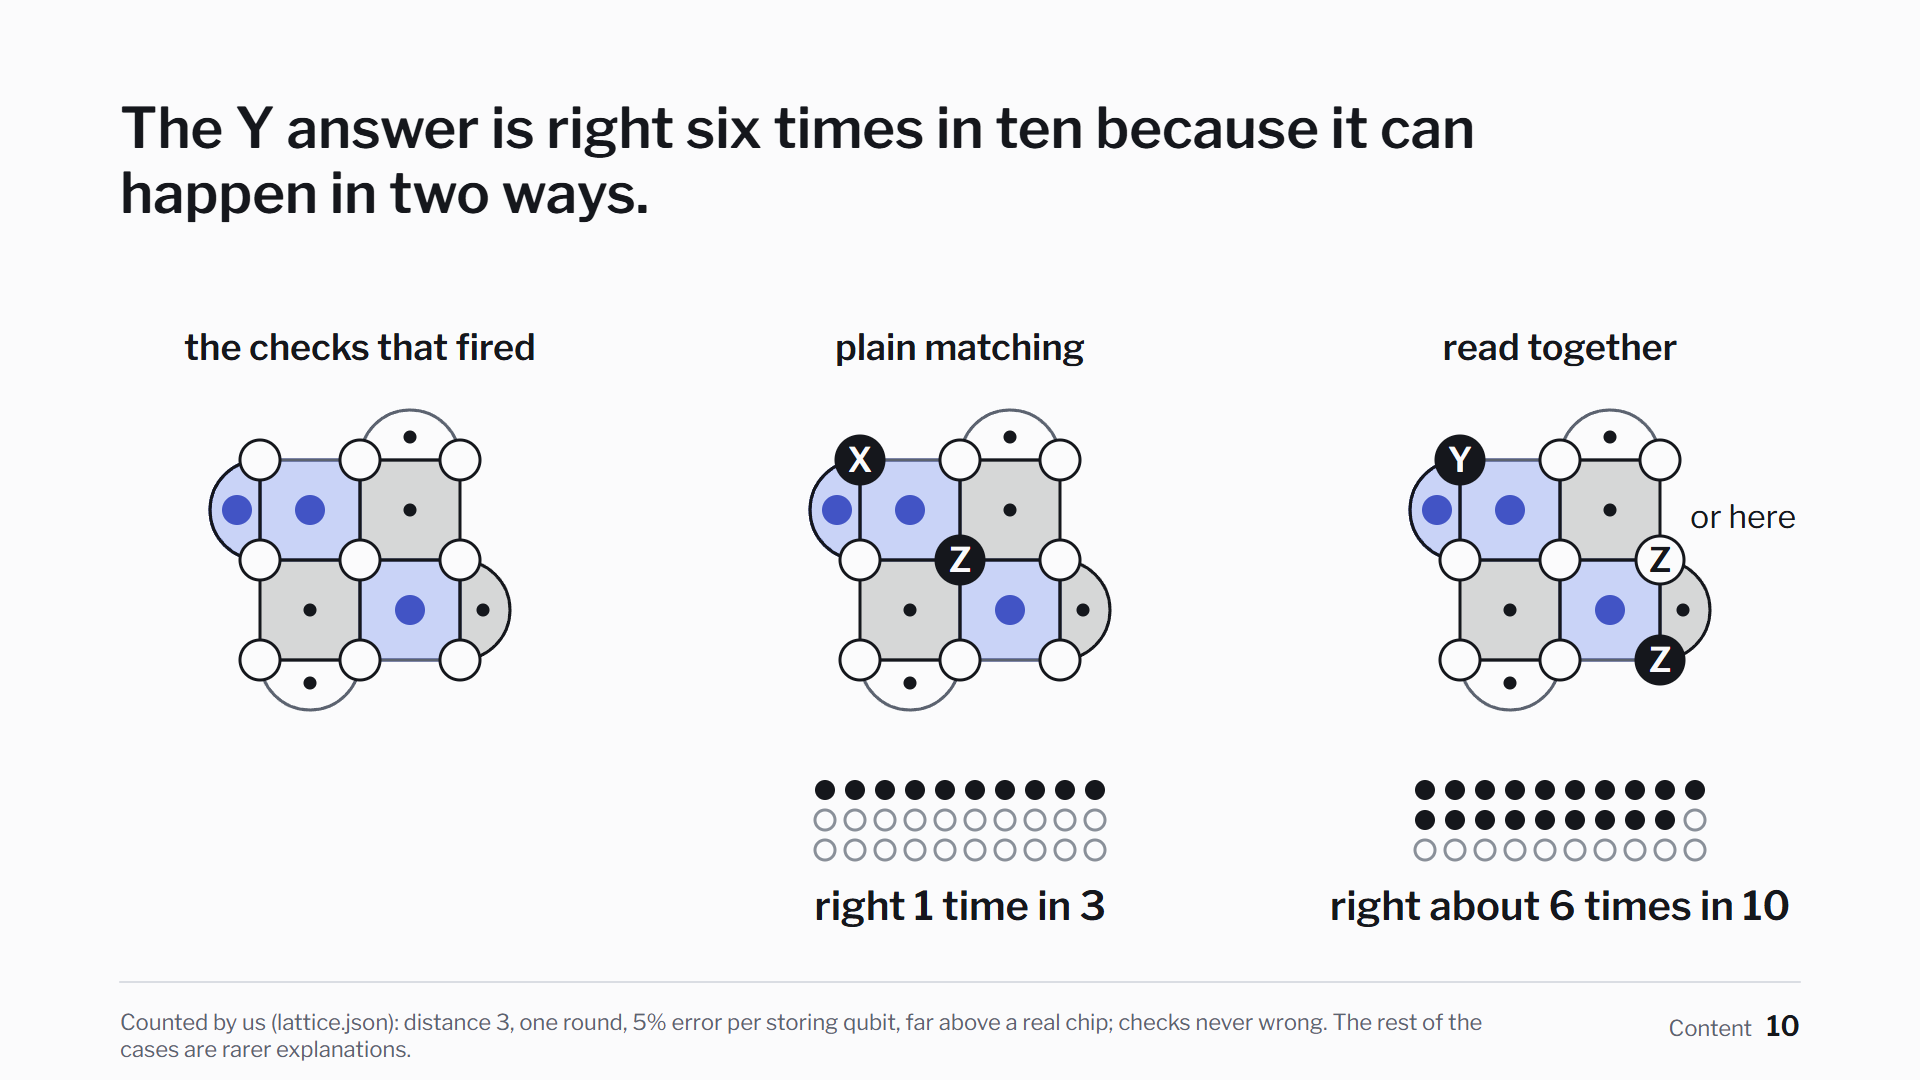
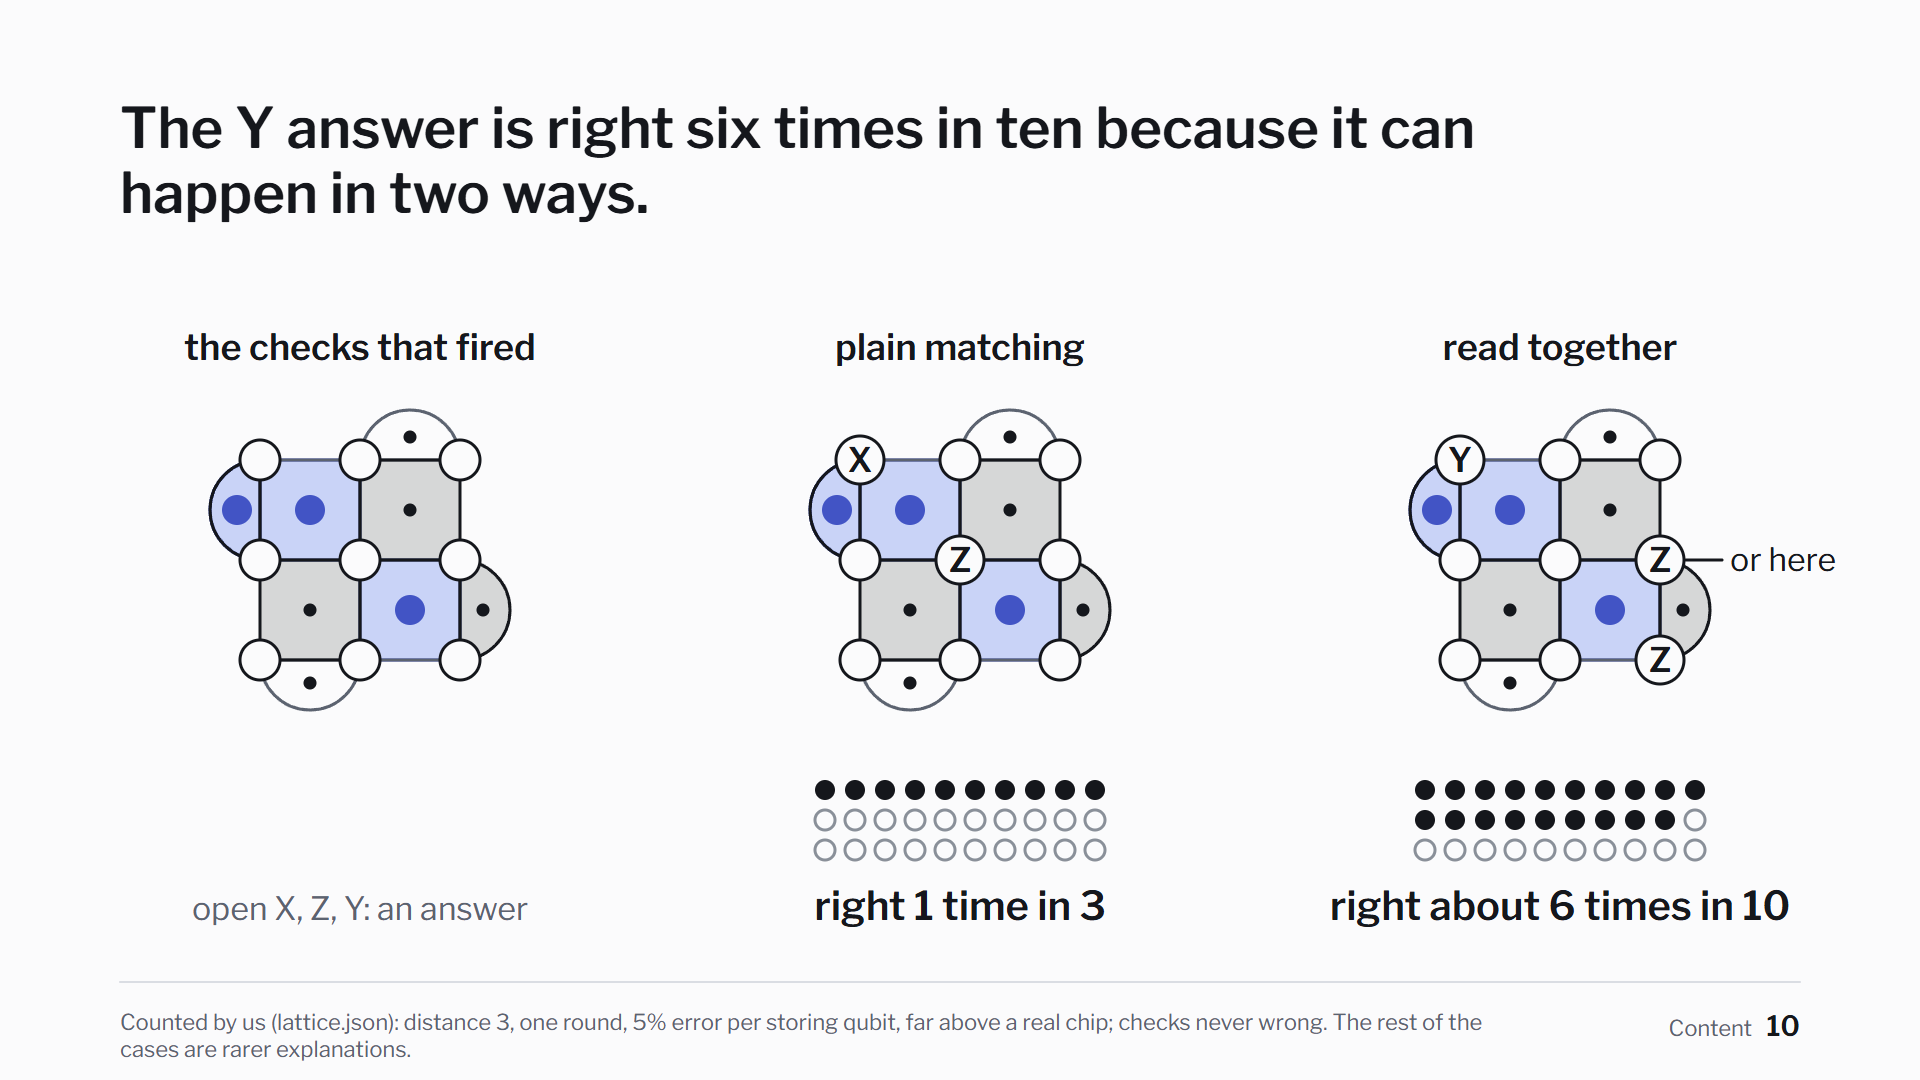
talks/quantum: review round 3 fixed (answers as open marks, slide 14 labels at the line ends, live matching on the axis, B4, notes)

diff --git a/talks/quantum/slides/14-ours/slide.js b/talks/quantum/slides/14-ours/slide.js
@@ -21,7 +21,7 @@ export default {
       title: this.title, n: this.n, part: this.part,
       source: 'Simulated, our own runs at 0.5% per operation (OWN-D3, OWN-D5, OWN-D5-250M): share of runs (3 rounds at distance 3, 5 at distance 5) that ended wrong. Curve points on 1 million runs, end values on 2 million.',
     });
-    T(svg, L, 312, 'share of simulated runs that ended wrong', { size: 32, weight: 600 });
+    T(svg, L, 312, 'share of simulated runs (3 rounds at distance 3, 5 at distance 5) that ended wrong', { size: 32, weight: 600 });
     const panel = (x0, x1, xmax, step, ylo, yhi, head) => {
       const y0 = 420, y1 = 830;
       const X = (n) => x0 + (n / xmax) * (x1 - x0);
@@ -30,7 +30,7 @@ export default {
       T(svg, x0, y0 - 26, head, { size: 36, weight: 600 });
       for (let v = 0; v <= xmax + 1; v += step) { ln(svg, X(v), y1, X(v), y1 + 12); T(svg, X(v), y1 + 46, String(v / 1e6), { size: 32, anchor: 'middle', fill: C.ink }); }
       T(svg, x1, y1 + 88, 'examples seen, millions', { size: 32, anchor: 'end', fill: C.muted });
-      for (let r = ylo; r <= yhi + 1e-9; r += 0.002) { ln(svg, x0 - 10, Y(r), x0, Y(r)); T(svg, x0 - 16, Y(r) + 11, pct(r, 1), { size: 32, anchor: 'end', fill: C.muted }); }
+      for (let r = ylo; r <= yhi + 1e-9; r += (yhi - ylo > 0.01 ? 0.004 : 0.002)) { ln(svg, x0 - 10, Y(r), x0, Y(r)); T(svg, x0 - 16, Y(r) + 11, pct(r, 1), { size: 32, anchor: 'end', fill: C.muted }); }
       const clipId = `c${x0}`;
       const cp = h('clipPath', { id: clipId }, svg); h('rect', { x: x0, y: y0, width: x1 - x0, height: y1 - y0 }, cp);
       const gc = h('g', { 'clip-path': `url(#${clipId})` }, svg);
@@ -46,34 +46,29 @@ export default {
       pth(P.gc, `M${med.map((q) => q.join(' ')).join('L')}`, { stroke: C.accent, 'stroke-width': 5 });
       return med[med.length - 1];
     };
+    // each line named at its right end, outside the plot, so no label crosses a curve
+    const tag = (P, r, str, o = {}) => T(svg, P.x1 + 14, P.Y(r) + 11 + (o.dy || 0), str, { size: 32, ...o });
     // left: distance 3, 0 to 70 million
-    const A = panel(L + 120, 860, 70e6, 10e6, 0.014, 0.020, 'Distance 3');
+    const A = panel(L + 120, 660, 70e6, 10e6, 0.014, 0.020, 'Distance 3');
     level(A, p3.levels.plain.rate); level(A, p3.levels.correlated.rate, '18 12'); level(A, p3.levels.table.rate, '3 10');
-    const [ax, ay] = band(A, p3);
-    T(svg, A.x0 + 120, A.Y(p3.levels.plain.rate) - 14, `plain ${pct(p3.levels.plain.rate)}`, { size: 32 });
-    // in the empty top right, with a leader down to the curve's end (as on the right)
-    const la = A.Y(0.0193);
-    T(svg, A.x1, la, `network ${pct(p3.final_network.mean)}`, { size: 44, weight: 600, fill: C.accent, anchor: 'end' });
-    ln(svg, ax - 6, la + 20, ax - 2, ay - 14, { stroke: C.accent, 'stroke-width': 3 });
-    // the dashed and dotted lines named at their own left ends
-    T(svg, A.x0 + 120, A.Y(p3.levels.correlated.rate) + 40, `correlated ${pct(p3.levels.correlated.rate)} (lead not counted, B4)`, { size: 32 });
-    T(svg, A.x0 + 20, A.Y(p3.levels.table.rate) + 40, `lookup table ${pct(p3.levels.table.rate)}`, { size: 32 });
+    band(A, p3);
+    tag(A, p3.levels.plain.rate, `plain ${pct(p3.levels.plain.rate)}`, { dy: -6 });
+    tag(A, p3.levels.correlated.rate, `correlated ${pct(p3.levels.correlated.rate)}`, { dy: 8 });
+    tag(A, p3.levels.correlated.rate, 'its lead not counted (B4)', { dy: 44, fill: C.muted });
+    tag(A, p3.final_network.mean, `network ${pct(p3.final_network.mean)}`, { dy: -22, weight: 600, fill: C.accent });
+    tag(A, p3.levels.table.rate, `lookup table ${pct(p3.levels.table.rate)}`, { dy: 20 });
     // right: distance 5, 0 to 260 million, fixed from the first build
-    const B = panel(1100, R, 260e6, 50e6, 0.010, 0.024, 'Distance 5');
+    const B = panel(1180, 1540, 260e6, 50e6, 0.010, 0.028, 'Distance 5');
     level(B, p66.levels.plain.rate); level(B, p66.levels.correlated.rate, '18 12');
-    T(svg, B.x0 + 20, B.Y(p66.levels.plain.rate) - 14, `plain ${pct(p66.levels.plain.rate)}`, { size: 32 });
-    T(svg, B.x0 + 20, B.Y(p66.levels.correlated.rate) - 14, `correlated ${pct(p66.levels.correlated.rate)}`, { size: 32 });
+    tag(B, p66.levels.plain.rate, `plain ${pct(p66.levels.plain.rate)}`, { dy: -14 });
+    tag(B, p66.levels.correlated.rate, `correlated ${pct(p66.levels.correlated.rate)}`, { dy: 14 });
     if (b === 0) {
       const [ex, ey] = band(B, p66);
       T(svg, ex + 24, ey - 40, 'after 66 million:', { size: 32, weight: 600, fill: C.accent });
       T(svg, ex + 24, ey, 'behind in all five seeds', { size: 32, weight: 600, fill: C.accent });
     } else {
-      const [ex, ey] = band(B, p250);
-      // in the empty top right, with a leader down to the curve's end
-      const ly = B.Y(0.0215);
-      T(svg, B.x1, ly, `network ${pct(p250.final_network.mean)}`, { size: 44, weight: 600, fill: C.accent, anchor: 'end' });
-      T(svg, B.x1, ly + 42, 'after about 250 million', { size: 32, weight: 600, fill: C.accent, anchor: 'end' });
-      ln(svg, ex - 6, ly + 62, ex - 2, ey - 14, { stroke: C.accent, 'stroke-width': 3 });
+      band(B, p250);
+      tag(B, p250.final_network.mean, `network ${pct(p250.final_network.mean)}`, { dy: 18, weight: 600, fill: C.accent });
     }
   },
 };

diff --git a/talks/quantum/slides/10-two-ways/slide.js b/talks/quantum/slides/10-two-ways/slide.js
@@ -3,7 +3,7 @@
 // right 1 time in 3; the answer read together (Y in that corner, a phase
 // error on the right, which can sit in two places) is right about 6 in 10.
 // Under each answer 30 dots: how often it is right, counted in thirtieths.
-import { C, svgOf, T, frame, slideGrid, errMark, dot } from '../../kit.js';
+import { C, svgOf, T, frame, slideGrid, errMark, dot, ln } from '../../kit.js';
 
 export default {
   id: 'two-ways', n: 10, part: 'Content', builds: 2, speaker: 'B',
@@ -23,10 +23,12 @@ export default {
       const G = slideGrid(svg, { checks: d.checks, d: d.distance, cx, cy, pitch, qr: 20 });
       ex.fired.forEach((id) => G.tiles[id].setFired(1));
       T(svg, cx, 360, head, { size: 36, weight: 600, anchor: 'middle' });
+      if (i === 0) T(svg, cx, 920, 'open X, Z, Y: an answer', { size: 32, anchor: 'middle', fill: C.muted });
       if (i === 0) return;
       const ans = i === 1 ? ex.plain_matching : ex.read_together;
-      Object.entries(ans.errors).forEach(([q, l]) => { const [x, y] = G.pos(Number(q)); errMark(G.gE, x, y, 24, l); });
-      if (i === 2) { const [x, y] = G.pos(5); errMark(G.gE, x, y, 24, 'Z', 'added'); T(svg, x + 30, y - 32, 'or here', { size: 32 }); }
+      // an answer is the decoder's guess: open marks, as on slide 8
+      Object.entries(ans.errors).forEach(([q, l]) => { const [x, y] = G.pos(Number(q)); errMark(G.gE, x, y, 24, l, 'added'); });
+      if (i === 2) { const [x, y] = G.pos(5); errMark(G.gE, x, y, 24, 'Z', 'added'); ln(svg, x + 26, y, x + 62, y, { 'stroke-width': 3 }); T(svg, x + 70, y + 11, 'or here', { size: 32 }); }
       // 30 dots, 3 rows of 10: how often this answer is right
       const n = Math.round(ans.chance_right * 30);
       for (let k = 0; k < 30; k++) {

diff --git a/talks/quantum/slides/b4-correlated/slide.js b/talks/quantum/slides/b4-correlated/slide.js
@@ -7,6 +7,6 @@ export default {
   clicks: ['backup'],
   draw(page, b, data) {
     const svg = svgOf(page);
-    backup(svg, { title: this.title, n: this.n, source: "Our check (OWN-CORR): PyMatching 2.4.0, called as its documentation says; distance 3, three rounds. Cause not traced." }, { rows: [["At 0.1% noise", "At 0.1% noise: plain matching failed in 0.075% of runs,", "correlated matching in 0.113%, on the same 4 million runs."], ["Single errors", "Each of the 219 single error mechanisms alone: plain matching", "corrects all; correlated matching gets 6 wrong."], ["How much", "Those six happen with 0.4 times the noise level: at 0.1%,", "0.04%, about the gap we measured (0.037%)."], ["A second script", "A second script, written by an AI agent from a description only,", "found the same six. At distance 5, 1,253 of 1,405,326 pairs (not repeated)."]] });
+    backup(svg, { title: this.title, n: this.n, source: "Our check (OWN-CORR): PyMatching 2.4.0, called as its documentation says; distance 3, three rounds. Cause not traced." }, { rows: [["At 0.1% noise", "At 0.1% noise: plain matching failed in 0.075% of runs,", "correlated matching in 0.113%, on the same 4 million runs."], ["Single errors", "Each of the 219 single error mechanisms alone: plain matching", "corrects all; correlated matching gets 6 wrong."], ["How much", "Those six happen with 0.4 times the noise level: at 0.1%,", "0.04%, about the gap we measured (0.037%)."], ["A second script", "Written by an AI agent from a description only: the same six."], ["Pairs, distance 5", "Our script only, not repeated: 1,253 of 1,405,326 pairs fail."]] });
   },
 };

diff --git a/talks/quantum/slides/12-clock/slide.js b/talks/quantum/slides/12-clock/slide.js
@@ -27,6 +27,7 @@ export default {
     const y1 = 380;
     T(svg, L, y1 + 12, 'The chip', { size: 36, weight: 600 });
     T(svg, L, y1 + 52, `a round every ${round}`, { size: 32 });
+    T(svg, x0, y1 - 40, 'one tick per round', { size: 32, fill: C.ink });
     for (let t = round; t <= T80; t += round) rc(svg, X(t) - 2, y1 - 24, 4, 48, { fill: C.ink, stroke: 'none' });
     {
       const y2 = 560;
@@ -47,8 +48,10 @@ export default {
       const y3 = 790;
       T(svg, L, y3 - 8, 'Live matching,', { size: 36, weight: 600 });
       T(svg, L, y3 + 34, 'distance 5, 72-qubit chip', { size: 32, weight: 600 });
-      T(svg, x0 + 20, y3 + 10, `kept pace: answered on average ${live.value} millionths of a second after the last round,`, { size: 32 });
-      T(svg, x0 + 20, y3 + 50, 'for runs of up to a million rounds', { size: 32 });
+      // the delay itself, drawn on the same axis: 63 after the last round
+      rc(svg, X(0), y3 - 24, X(live.value) - X(0), 30, { fill: C.hair, stroke: C.ink, 'stroke-width': 3, rx: 4 });
+      T(svg, X(live.value) + 16, y3 + 2, String(live.value), { size: 36, weight: 600 });
+      T(svg, X(0), y3 + 46, 'its answer, on average, after the last round of a run of up to a million rounds: it kept pace', { size: 32 });
     }
   },
 };

diff --git a/talks/quantum/CUES.md b/talks/quantum/CUES.md
@@ -20,17 +20,17 @@ Generated by `node tools/qdeck.mjs` from each slide's `notes.md`. Times: the not
 | 14 | 8 silent |  | 2 of 3 | matching adds two flips below |  |
 | 15 | 8 silent |  | 3 of 3 | together: edge to edge, nothing fires | Errors plus a wrong correction can cross the grid without firing a single check. |
 | 16 | 9 patterns | 6:48 | 1 of 1 | 256 patterns, 24 filled | Matching gives the less likely answer on 24 of the 256 patterns we counted. |
-| 17 | 10 two-ways | 7:38 | 1 of 2 | the pattern and plain matching |  |
+| 17 | 10 two-ways | 7:41 | 1 of 2 | the pattern and plain matching |  |
 | 18 | 10 two-ways |  | 2 of 2 | the Y answer, two ways | The Y answer is right six times in ten because it can happen in two ways. |
-| 19 | 11 google | 8:49 | 1 of 2 | Google’s best matching decoder |  |
+| 19 | 11 google | 8:56 | 1 of 2 | Google’s best matching decoder |  |
 | 20 | 11 google |  | 2 of 2 | the network | On Google’s recordings the network made about one error in six fewer. |
-| 21 | 12 clock | 9:52 | 1 of 2 | the chip’s rounds and the network’s answers |  |
+| 21 | 12 clock | 9:58 | 1 of 2 | the chip’s rounds and the network’s answers |  |
 | 22 | 12 clock |  | 2 of 2 | live matching, another setup | The network needed 24 millionths of a second for a round the chip finishes in 1.1. |
-| 23 | 13 method | 10:50 | 1 of 2 | data and network |  |
+| 23 | 13 method | 10:57 | 1 of 2 | data and network |  |
 | 24 | 13 method |  | 2 of 2 | the baselines, the table, the stop rule | We trained a small network in simulation and wrote down our stop rule first. |
-| 25 | 14 ours | 11:52 | 1 of 2 | distance 3; distance 5 after 66 million |  |
+| 25 | 14 ours | 11:58 | 1 of 2 | distance 3; distance 5 after 66 million |  |
 | 26 | 14 ours |  | 2 of 2 | distance 5, about 250 million | Ours passed plain matching at distance 5 only after about 250 million examples. |
-| 27 | 15 properties | 13:01 | 1 of 2 | four properties |  |
+| 27 | 15 properties | 13:07 | 1 of 2 | four properties |  |
 | 28 | 15 properties |  | 2 of 2 | what the stop rule decided | A decoder gives no quantum speed-up, but its accuracy changes how big a useful machine must be. |
 | 29 | end questions |  | 1 of 1 | questions | Questions |
 | 30 | BB1 uncompute |  | 1 of 1 | backup | A helper learns only the parity, and is reset for the next round. |
@@ -42,7 +42,7 @@ Generated by `node tools/qdeck.mjs` from each slide's `notes.md`. Times: the not
 | 36 | BB7 preprint |  | 1 of 1 | backup | AlphaQubit 2 claims a network that keeps pace. Nobody has reviewed it yet. |
 | 37 | BB8 recordings |  | 1 of 1 | backup | The test on Google’s public recordings is still open. |
 
-**Main talk:** 1630 words, 14:08 in all. Contrast sentences in the notes: 0.
+**Main talk:** 1644 words, 14:14 in all. Contrast sentences in the notes: 0.
 
 | Slide | Seconds | Words |
 | ---: | ---: | ---: |
@@ -54,8 +54,8 @@ Generated by `node tools/qdeck.mjs` from each slide's `notes.md`. Times: the not
 | 6 film | 61 | 99 |
 | 7 matching | 40 | 77 |
 | 8 silent | 50 | 94 |
-| 9 patterns | 50 | 100 |
-| 10 two-ways | 72 | 143 |
+| 9 patterns | 53 | 107 |
+| 10 two-ways | 75 | 150 |
 | 11 google | 62 | 106 |
 | 12 clock | 59 | 115 |
 | 13 method | 61 | 121 |

diff --git a/talks/quantum/slides/10-two-ways/notes.md b/talks/quantum/slides/10-two-ways/notes.md
@@ -2,6 +2,6 @@
 
 One of the most frequent of the 24. Three checks fire. Plain matching explains them with two errors: a flip in one corner and a phase error in the centre. It fits, and it is right one time in three.
 
-The same checks also fit a Y in that corner, a flip and a phase error at once, plus one phase error on the right. Plain matching counts a Y as two errors, because it solves flips and phase errors separately. And the phase error can sit in two places: the far corner, or one place above it. Together the two ways are right about six times in ten. Five percent error per qubit is far above a real chip; it makes the effect easy to count.
+The same checks also fit a Y in that corner, a flip and a phase error at once, plus one phase error on the right. Plain matching counts a Y as two errors, because it solves flips and phase errors separately. And the phase error can sit in two places: the far corner, or one place above it. Together the two ways are right about six times in ten. Five percent error per storing qubit, with checks that never report wrongly, is far from a real chip; it makes the effect easy to count.
 
 **The Y answer is right six times in ten because it can happen in two ways.**

diff --git a/talks/quantum/slides/09-patterns/notes.md b/talks/quantum/slides/09-patterns/notes.md
@@ -1,5 +1,5 @@
 # 9 · Matching gives the less likely answer on 24 of the 256 patterns we counted
 
-We went down to the smallest grid, where every case can be counted, and compared two answers for every pattern of fired checks: matching's and the most likely one. On 24 of the 256 patterns, matching's answer is less likely than another. On 144 more, two answers are exactly as likely, and no decoder can do better there. The 24 are rare: together under one case in a hundred. The five percent error rate here only makes the counting easy; a real chip is far better.
+We went down to the smallest grid, where every case can be counted, and compared two answers for every pattern of fired checks: matching's and the most likely one. On 24 of the 256 patterns, matching's answer is less likely than another. On 144 more, two answers are exactly as likely, and no decoder can do better there. The 24 are rare: together under one case in a hundred. The five percent error per storing qubit, with checks that never report wrongly, only makes the counting easy; a real chip is far better.
 
 **Matching gives the less likely answer on 24 of the 256 patterns we counted.**

diff --git a/talks/quantum/QUESTIONS.md b/talks/quantum/QUESTIONS.md
@@ -55,4 +55,4 @@ Roughly 14 to 27 millionths of a second per run on one laptop core, emulated, wi
 ## On the result
 
 **Is the difference between 2.04 and 2.14 big?**
-At distance 7 it is 171 against 143 errors per 100,000 rounds, about one in six fewer, from the same recordings. Λ decides how many qubits a halving costs: near 2, one more halving costs 64 qubits.
+At distance 7 it is 171 against 143 errors per 100,000 rounds, about one in six fewer, from the same recordings. The grid's geometry sets what each step costs (distance 7 to 9 is 64 more qubits); Λ sets how many steps a target needs. Near 2, each step halves the error.
